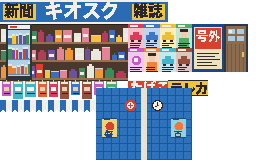
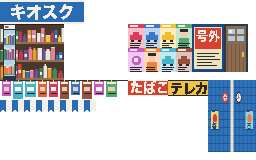
Shrine town station zone: the texture cuts
The zone's 8-bit textures are 4-bit (koban, the danchi's facade, the pachinko
parlour's storefront, the bus stop, the bike shelter's sign); the ticket gates'
floor is a repeating 32 x 32; the newsstand's goods, sign and sides are stored
at half width (and its side cells no longer overwrite the tobacco and card
plates on the sheet); the postbox's cap is a 32 x 32 pattern.

diff --git a/carts/garden/shrinetown/assets/newsstand/gen_newsstand.py b/carts/garden/shrinetown/assets/newsstand/gen_newsstand.py
@@ -69,15 +69,12 @@ def rect(d, x0, y0, x1, y1, fill):
 
 
 def draw_sign():
-    """168 x 24: the fascia. Blue board, white rules, キオスク between yellow 新聞 and 雑誌."""
-    im = Image.new("RGBA", (168, 24), BLUE + (255,))
+    """84 x 24: the fascia (half width, TEXTURES.md's cut). Blue board, white rules, キオスク."""
+    im = Image.new("RGBA", (84, 24), BLUE + (255,))
     d = ImageDraw.Draw(im)
-    rect(d, 0, 0, 168, 2, WHITE)
-    rect(d, 0, 22, 168, 24, WHITE)
-    text(d, (44, 1), "キオスク", 19, WHITE)
-    for x0, s in ((3, "新聞"), (132, "雑誌")):
-        rect(d, x0, 4, x0 + 33, 20, YELLOW)
-        text(d, (x0 + 1, 3), s, 15, INK)
+    rect(d, 0, 0, 84, 2, WHITE)
+    rect(d, 0, 22, 84, 24, WHITE)
+    text(d, (10, 3), "キオスク", 16, WHITE)
     return im
 
 
@@ -127,7 +124,8 @@ def poster(src, name):
 
 
 def draw_side(src, which):
-    """48 x 72 (3.1 x 3.3 cm a texel) over a side wall's outer face, 1.5 x 2.35 m.
+    """24 x 72 over a side wall's outer face, 1.5 x 2.35 m: drawn at 48 x 72 (3.1 x 3.3 cm a
+    texel) and halved in width (TEXTURES.md's cut).
     Seen from outside, the right wall's front is the texture's left, the left wall's its right.
     A cream trim down the front edge, a poster toward the back, a clock or the station mark
     toward the front, high up."""
@@ -140,14 +138,15 @@ def draw_side(src, which):
     im.paste(poster(src, "poster_a" if which == "l" else "poster_b"), (px, 30))
     cx = 13 if front_left else 34                      # the clock or mark, toward the front
     (emblem if which == "l" else clock)(d, cx, 17)
-    return im
+    return im.resize((24, 72), Image.BOX)
 
 
 def draw_goods(src):
-    """128 x 56: the lab's shelves with its drinks fridge standing at the left."""
+    """64 x 56: the lab's shelves with its drinks fridge standing at the left, drawn at 128 x 56
+    and halved in width (TEXTURES.md's cut)."""
     im = lab(src, "goods").copy()
     im.paste(lab(src, "fridge").resize((26, 56), Image.NEAREST), (6, 0))
-    return im
+    return im.resize((64, 56), Image.BOX)
 
 
 def draw_art():
@@ -168,8 +167,8 @@ def draw_art():
     put("door", lab(src, "door"), 224, 24)
     put("tobacco", lab(src, "tobacco"), 128, 80)
     put("card", lab(src, "card"), 168, 80)
-    put("side_l", draw_side(src, "l"), 96, 88)
-    put("side_r", draw_side(src, "r"), 144, 88)
+    put("side_l", draw_side(src, "l"), 208, 80)
+    put("side_r", draw_side(src, "r"), 232, 80)
     os.makedirs(os.path.join(HERE, "art"), exist_ok=True)
     sheet.save(os.path.join(HERE, "art", "newsstand_sheet.png"))
     with open(os.path.join(HERE, "art", "newsstand_sheet.sheet.json"), "w") as f:

diff --git a/carts/garden/shrinetown/assets/ticket_gates/art/make_art.py b/carts/garden/shrinetown/assets/ticket_gates/art/make_art.py
@@ -2,7 +2,7 @@
 """Draws the ticket gates' textures (authored art; run once, the PNGs are committed beside).
 
 From the asset lab's ticket gates (examples/assets/lab/ticket_gates); shrine town adds floor(),
-the tiled floor with its tactile band and guide strips painted in, sized to the recipe.
+the tiled floor, a repeating 32 x 32 (the recipe's floor material repeats it every 1.6 m).
 """
 import os
 from PIL import Image, ImageDraw, ImageFont
@@ -190,38 +190,19 @@ def clock():
     return im
 
 
-# The floor slab's top: x -3.6..3.6, z -1.5..0.9 at 5 cm a texel (row 0 is the back, z 0.9).
-FLOOR_X0, FLOOR_Z1, TEXEL = -3.6, 0.9, 0.05
-AISLES = [-2.10, -0.94, 0.22, 1.38, 2.54]   # aisle centres (x), as in ticket_gates.asset.json
-
-
 def floor():
-    """Grey tiles, the yellow tactile band along the front and a guide strip into each aisle."""
+    """32 x 32, repeating (TEXTURES.md's cut: the 144 x 48 floor drawn once was 4 KB): grey tiles
+    of 8 texels (0.4 m at the recipe's 1.6 m a repeat) with a texel of darker grout, two tones in a
+    checker."""
     T0, T1, GR = hexc("#8d9296"), hexc("#9aa0a4"), hexc("#6c7276")
-    Y, YD = hexc("#f0cf2c"), hexc("#b89410")
-    w, h = 144, 48
-    im = Image.new("RGBA", (w, h), T0)
+    im = Image.new("RGBA", (32, 32), T0)
     px = im.load()
-
-    def col(x):
-        return round((x - FLOOR_X0) / TEXEL)
-
-    def row(z):
-        return round((FLOOR_Z1 - z) / TEXEL)
-
-    for y in range(h):
-        for x in range(w):
-            if x % 6 == 0 or y % 6 == 0:
+    for y in range(32):
+        for x in range(32):
+            if x % 8 == 0 or y % 8 == 0:
                 px[x, y] = GR
-            elif ((x // 6) + (y // 6)) % 2:
+            elif ((x // 8) + (y // 8)) % 2:
                 px[x, y] = T1
-    def tactile(x0, x1, y0, y1):
-        for y in range(y0, y1):
-            for x in range(x0, x1):
-                px[x, y] = YD if (x % 2 == 1 and y % 2 == 1) else Y
-    tactile(0, w, row(-1.0), row(-1.45))
-    for a in AISLES:
-        tactile(col(a - 0.15), col(a + 0.15), row(0.0), row(-1.0))
     return im
 
 

diff --git a/carts/garden/shrinetown/assets/bike_rack/gen_bike_rack.py b/carts/garden/shrinetown/assets/bike_rack/gen_bike_rack.py
@@ -174,8 +174,8 @@ MATERIALS = {
     "steel": {"color": "#7d858c", "palette": True},
     "fin": {"color": "#8c949a", "palette": True, "double_sided": True},
     "post": {"color": "#5f6a70", "palette": True, "double_sided": True},
-    "sign": {"color": "#185c46", "tag": "sign", "texture": {"sheet": "art", "cell": "sign",
-                                                            "bits": 8, "projection": "fit"}},
+    "sign": {"color": "#185c46", "tag": "sign", "texture": {"sheet": "art", "cell": "sign",  # 4-bit
+                                                            "projection": "fit"}},
     "bikes": {"color": "#7fcab6", "double_sided": True,
               "texture": {"sheet": "art", "cell": "bikes", "projection": "fit"}},
 }

diff --git a/carts/garden/shrinetown/assets/pachinko_parlour/make_pachinko.py b/carts/garden/shrinetown/assets/pachinko_parlour/make_pachinko.py
@@ -224,7 +224,7 @@ MATERIALS = {
         "sheet": "art", "frames": ["bulbs_a", "bulbs_b"], "ticks": 10, "projection": "fit"}},
     "blade": {"color": "#1e2a8a", "class": "emissive", "tag": "sign", "texture": sheet("blade")},
     "storefront": {"color": "#26305e", "class": "emissive", "tag": "shopfront",
-                   "texture": sheet("storefront", bits=8)},
+                   "texture": sheet("storefront")},      # 4-bit (TEXTURES.md)
     "lamp": {"color": "#e0301e", "class": "emissive", "tag": "lantern"},
     "banner": {"color": "#d81e1e", "double_sided": True, "texture": sheet("banner")},
     "vend": {"color": "#e8e8ea", "texture": sheet("vend")},

diff --git a/carts/garden/shrinetown/assets/danchi/make_danchi.py b/carts/garden/shrinetown/assets/danchi/make_danchi.py
@@ -280,7 +280,7 @@ STAIR_COLORS = ["#000000", "#9a958a", "#c8c4b8", "#d4c8ae", "#b8ae98"]
 
 MATERIALS = {
     "facade": {"color": WALL, "tag": "wall", "texture": {
-        "sheet": "danchi", "cell": "facade", "bits": 8, "projection": "box",
+        "sheet": "danchi", "cell": "facade", "projection": "box",   # 4-bit (TEXTURES.md)
         "scale": [W, r(FACADE_V)], "offset": [0.5, frac(-BODY_YC / FACADE_V)]}},
     "back": {"color": WALL, "tag": "wall", "texture": {
         "sheet": "danchi", "cell": "back", "projection": "box",

diff --git a/carts/garden/shrinetown/assets/bus_stop/gen_bus_stop.py b/carts/garden/shrinetown/assets/bus_stop/gen_bus_stop.py
@@ -122,7 +122,7 @@ def sphere(id, radius, rings, segments, at, material, scale=None):
             "material": material, "transform": t}
 
 
-def fit(cell, bits=8):
+def fit(cell, bits=4):               # 4-bit: no 8-bit textures in shrine town (TEXTURES.md)
     t = {"sheet": "art", "cell": cell, "projection": "fit"}
     if bits == 8:
         t["bits"] = 8

diff --git a/carts/garden/shrinetown/assets/koban/make_koban.py b/carts/garden/shrinetown/assets/koban/make_koban.py
@@ -167,7 +167,7 @@ def cyl(id, radius, height, at, material, segments=6, caps=True):
     return n
 
 
-def sheet(cellname, bits=8):
+def sheet(cellname, bits=4):         # 4-bit: no 8-bit textures in shrine town (TEXTURES.md)
     t = {"sheet": "art", "cell": cellname, "projection": "fit"}
     if bits == 8:
         t["bits"] = 8
